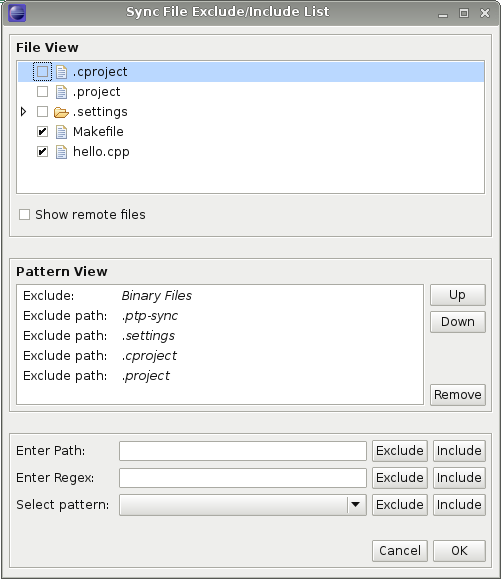
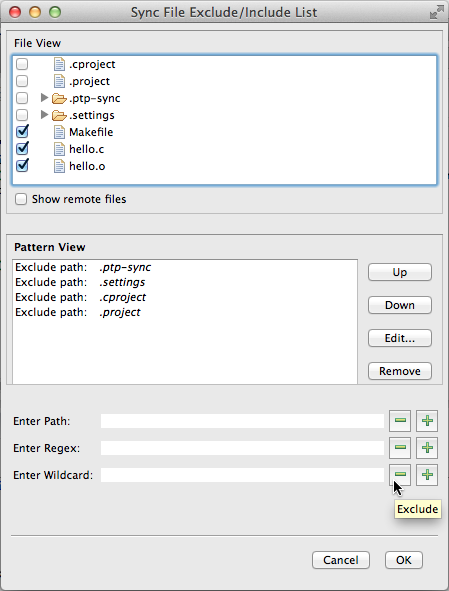
Update help for sync file filtering

Changed region(s): [[0.0, 0.0, 1.0, 1.0], [0.2183, 0.8069, 0.2494, 0.8379]]

diff --git a/core/org.eclipse.ptp.doc.user/html/sync.html b/core/org.eclipse.ptp.doc.user/html/sync.html
@@ -12,11 +12,13 @@
 <li><a href="#create">Creating a new Synchronized Project</a>
 <li><a href="#work">Working with a Synchronized Project</a>
 <li><a href="#context-menu">Changing sync behavior with the Sync Context Menu</a>
-<li><a href="#file-filter">Changing which files are synchronized</a> - sync filtering
+<li><a href="#file-filter">Changing which files are synchronized with Sync Filtering</a>
 <li><a href="#conversion-wizard">Converting a project to a Synchronized Project</a>
 <li><a href="#merge-conflict">Resolving merge conflicts</a>
 <li><a href="#remote-discovery">Discovering the remote environment (remote includes and code analysis)</a>
+<li><a href="#prefs">Sync Preferences</a>
 </ul>
+<!--  fixme: redo screenshots later, since title has changed for file filtering  -->
 <p>Synchronized projects consist of files that are mirrored on the local system as well as on one or more remote systems.
 Editing occurs locally and each file is synchronized with the currently active remote system when it is changed, created, or deleted.  
 This enables faster interaction with the files
@@ -38,8 +40,7 @@ select <b>New > Synchronized C/C++ Project</b> or <b>Synchronized Fortran Projec
 <p><br></p>
 <p><img src="images/sync-newprojContext.png">
 <p><br></p>
-Now fill out the dialog shown.
-<p><br></p>
+<p id="new-sync-proj">Now fill out the <b>New Synchronized Project</b> dialog shown.
 <p><img src="images/sync-newprojCreate.png">
 <p><br></p>
 As for any Eclipse project, give the project name and location, which must be a local directory for a Synchronized Project.
@@ -47,6 +48,12 @@ Then give a remote location by specifying a <a href="#connection">connection</a>
 Next, specify the project type. Finally, select toolchains to be used for remote and local sites.
 Normally, you will select only one toolchain for each, but it is possible to select additional toolchains.
 <i>Note that a local toolchain is not required if you do not need to build locally.</i>
+<p>File filtering specifies which files will be synchronized between the local machine and the remote target.
+The default can be altered for this new project
+via the <b>Modify File Filtering...</b> button.  By default, eclipse-related files such as <code>.project</code>
+are not synchronized between the local and the remote system.  Binary files are.  See <a href="#file-filter">Sync Filtering</a>
+for more information.  See <a href="#prefs">Sync Preferences </a> for information on how to modify the default behavior 
+for subsequent new synchronized projects.
 <p>
 Select <b>Next</b> to scroll through the remaining pages, which differ based on the selected project types and toolchains.
 At some point, you should see the configuration page, which will list a separate build configuration for each toolchain selected earlier.
@@ -78,7 +85,7 @@ If you create or delete files, the remote system will be updated appropriately.
 <p>
 By default, a synchronized project is configured to build on the same remote host as for synchronization.
 To build the project (assuming you have already created a makefile), make sure the project is selected in the <b>Project Explorer</b> view, then click
-on the build icon (the icon that looks like a hammer).
+on the build icon (the icon that looks like a hammer). The Console view shows the results of the build.
 </p>
 <p>
 Synchronization and building are done between the local workspace and the active configuration.
@@ -86,7 +93,7 @@ You can change the active configuration by using the "sundial" icon next to the 
 Local configurations have sync disabled initially and build in the Eclipse workspace.
 </p>
 <p>
-You can create configurations to synchronize and build on other remote systems from the <b>C/C++ Build > Synchronize</b> project properties.
+You can create configurations to synchronize and build on other remote systems from the <b>C/C++ Build > Synchronize</b> in project properties.
 To bring up the Synchronize project properties, in the <b>Project Explorer</b> view, select the project and choose <b>Properties</b> from the context
 menu (right click).
 You can also use these property pages to modify configurations in general. See the CDT documentation for more details.
@@ -94,24 +101,67 @@ You can also use these property pages to modify configurations in general. See t
 <p><img src="images/sync-projProperties.png">
 
 <h2 id="context-menu">Changing sync behavior with the Sync Context Menu</h2>
-<p>The sync context menu lets you alter the sync behavior and can be accessed with a right click on a sync project. From this menu, you can turn off automatic sync'ing (sync after saving files and other resource changes) so that syncs only occur on request. This setting is applied to all projects in the workspace. The "Project Auto-Sync Settings" submenu allows you to alter the behavior of automatic sync'ing per project. The next two selections allow you to force an immediate sync of the current project. A "sync all" syncs all configurations of a project. Note that this can be quite slow if your project has several configurations. Prior to a build, files are always updated with a forced sync of only the active configuration, regardless of any settings. This ensures that the build is based on the latest revisions. Another sync may occur after the build to update files, since the build may alter the remote files during compilation. (This sync, however, does respect the user's settings.) See "<a href="#file-filter">Changing which files are synchronized</a>" for information on the "Filter..." option.
+<p>The sync context menu lets you alter the sync behavior and can be accessed with a right click on a sync project. From this menu, you can turn off automatic sync'ing (sync after saving files and other resource changes) so that syncs only occur on request. This setting is applied to all projects in the workspace. The "Project Auto-Sync Settings" submenu allows you to alter the behavior of automatic sync'ing per project. The next two selections allow you to force an immediate sync of the current project. A "sync all" syncs all configurations of a project. Note that this can be quite slow if your project has several configurations. Prior to a build, files are always updated with a forced sync of only the active configuration, regardless of any settings. This ensures that the build is based on the latest revisions. Another sync may occur after the build to update files, since the build may alter the remote files during compilation. (This sync, however, does respect the user's settings.) 
+See "<a href="#file-filter">Sync Filtering: Changing which files are synchronized</a>" for information on the "Filter..." option.
 
 <p><img src="images/sync-contextMenu.png">
 
-<h2 id="file-filter">Changing which files are synchronized</h2>
+<h2 id="file-filter">Sync Filtering: Changing which files are synchronized</h2>
+<!-- need the word FILTER On the dialog itself ? -->
+<p>Some files do not need to be synchronized between local and remote locations. 
+For example, binaries may not be of use on the local machine (and may be large and slow to replicate), but source files usually are
+since they are usually edited from the local Eclipse workbench but used to build on the remote target system. 
+<p>From the "Filter..." option of the <a href="#context-menu">sync context menu</a>,
+you can change which files are synchronized for the current project. You can also change the default settings for future projects on the 
+<a href="#prefs">Synchronized Project preference page</a>. 
+For files and folders, "Exclude Selection" and "Include Selection" shortcut options are also available from the context menu. 
+By default, files and directories specifically used by Eclipse are excluded. (Note that these files, such as <code>.project</code> and <code>.project</code> etc.  are normally not visible.)
+<p>Sync filtering information is accessible in three places:
+<ol>
+<li>The sync filter dialog for existing projects (shown below)
+shows settings and what it does to files in the currently selected existing project
+<li>The <b>File Filters</b> popup dialog from the 
+<a href="#new-sync-proj">new synchronized project dialog</a> (from the <b>Modify File Filtering...</b> button)
+allows setting sync filter settings as a project is created, and 
+<li>The <href="#sync-prefs">Sync Filters Preference page</href> sets defaults that will be used in new projects.
+</ol>
+<p>There are three parts to the sync filter dialog for an existing project:
+<ul>
+<li>The <b>File View</b> always indicates the currently excluded and included directories and files - based on the patterns and selections beneath it. 
+(Not included on the <a href="#prefs">Sync Preferences</a> page.)
+<li>The <b>Pattern View</b> always shows the current exclude and include patterns.
+<li>Finally the bottom portion of the dialog allows you to enter additional patterns, files, and paths to include or exclude from synchronization,
+and the results will be shown above it in the dialog.
+</ul>
 <p>
-From the "Filter..." option of the sync context menu, you can change which files are synchronized for the current project. You can also change the default settings for future projects on the "Synchronized Project" preference page. For files and folders, "Exclude Selection" and "Include Selection" shortcut options are also available from the context menu. 
-By default, files and directories specifically used by Eclipse are excluded. (Note that these files, such as <code>.project</code> etc.  are normally not visible.)
-The "File View" always indicates the currently excluded and included directories and files, while the "Pattern View" always shows the current exclude and include patterns. (The file view is not shown on the preference page.) Each view updates automatically if the other view is changed, so that they are always in agreement. This allows you to see immediately the effect of adding a new pattern. By default, remote files are not shown. Showing remote files may lead to a slower response time while updating views. An error message is printed if the remote is disconnected.
-
+Each view updates automatically if the other view is changed, so that they are always in agreement. 
+This allows you to see immediately the effect of adding a new pattern. 
+By default, remote files are not shown. Showing remote files may lead to a slower response time while updating views. 
+An error message is printed if the remote is disconnected.
 <p>
-You can deselect or select directories or files in the File View, which will add the corresponding exclude or include pattern to the pattern view. These are "path" patterns, meaning that directories or files in the specified path are excluded or included. 
-Underneath the Pattern View, you can manually enter a path (Enter Path:). You can also enter a regular expression ("regex") that is compared to the project-relative path. The regular expression syntax is that of the Java programming language. An error message is printed if the regular expression is not valid. Finally, you can select "special" patterns from the "Select pattern" drop-down. Currently the only special pattern is one for matching binary files.
-
+You can deselect or select directories or files in the <b>File View</b>, which will add the corresponding exclude or include pattern to the <b>Pattern View</b>. 
+These are "path" patterns, meaning that directories or files in the specified path are excluded or included. 
+Underneath the <b>Pattern View</b>, you can manually enter a path (Enter Path:). You can also enter a regular expression ("regex") that is compared to the project-relative path. 
+The regular expression syntax is that of the Java programming language. An error message is printed if the regular expression is not valid. 
+<!--Finally, you can select "special" patterns from the "Select pattern" drop-down. Currently the only special pattern is one for matching binary files.
+  -->
+Lastly, you can also enter a simple wildcard pattern ("Enter Wildcard:").
 <p>
-Patterns are applied in the order given in the Pattern View, and new patterns are always placed at the top (highest priority). So a file will be excluded or included based on the first matching pattern, or included if no pattern matches. Use the "Up" and "Down" buttons to change a pattern's priority. If a new pattern is identical to an old pattern and has the same type, the old pattern is removed. Note that it doesn't matter whether the old pattern was an exclude or include pattern, since the new pattern supersedes it.
+Patterns are applied in the order given in the <b>Pattern View</b>, and new patterns are always placed at the top (highest priority). 
+So a file will be excluded or included based on the first matching pattern, or included if no pattern matches. 
+Use the "Up" and "Down" buttons to change a pattern's priority. 
+If a new pattern is identical to an old pattern and has the same type, the old pattern is removed. 
+Note that it doesn't matter whether the old pattern was an exclude or include pattern, since the new pattern supersedes it.
 
 <p><img src="images/sync-fileExcludeIncludeList.png">
+<p>To enter a new pattern of file(s) to exclude from synchronization, for example, enter the pattern <code>*.o</code> into the <b>Enter Wildcard:</b> field
+and hit the <b>Exclude</b> button, the "minus-sign" button.  To force inclusion of a file or pattern in the synchronization, 
+for example, to override a more general pattern, use the "plus-sign" button to <b>Include</b> the file or pattern..
+<!-- fixme fix this image -->
+<br><img src="images/sync-exclude-include-buttons2.png" >
+<p>The file is changed to unchecked in the <b>File View</b> and the wildcard pattern is added to the <b>Pattern View</b>.
+<br><img src="images/sync-fileExcludeIncludeList_mod.png">
+<p>Hit <b>OK</b> to save any changes you have made to the sync filtering.
 
 <h2 id="conversion-wizard">Converting a project to a Synchronized Project</h2>
 <p>
@@ -166,6 +216,10 @@ The list of discovered paths and macros can be found under the Entries tab on th
 <p>
 By default, the build output parser discovers entries per file. This can be changed under the provider's tab (see above figure). If discovery is per file, though, the list of includes and macros will be empty if accessed from the project menu or by right-clicking on the project or a folder and selecting "Properties." Instead, right-click on an individual file and select "Properties" to see the entries for that particular file.
 
+<h3 id="prefs">Sync Preferences</h3>
+<p>The preferences page for Synchronized projects includes setting defaults for sync filtering.
+<p><img src="images/sync-prefs.png">
+<p>&nbsp;
 <h3>Tips</h3>
 <dl>
 <li>The indexing of source files can take a long time. You may want to cancel the process or disable indexing altogether until the above setup is complete (<b>Project > Properties > C/C++ General > Indexer</b>)</li>
@@ -173,7 +227,7 @@ By default, the build output parser discovers entries per file. This can be chan
 <li>To re-index, right-click on the project and select <b>Indexer > Rebuild</b></li>
 <li>In the Providers tab (not the Entries tab), use the Clear Entries button to erase entries for a specific provider. Doing this is often necessary after creating a new configuration for a different remote. The entries for the copied configuration are copied to the new configuration.</li>
 <li>The build output parser operates on build output lines containing the name of the compiler executable. Under the provider tab, change the "Compiler command pattern" (see above figure) if it does not match your executable name. For example, if you are using MPI your executable may be "mpicc," "mpic++," or "mpiCC." Be careful to mimic the regular expression format. For example, to add "mpic++" append: |(mpic\+\+) to the pattern.</li>
-<li>If switching configurations does not alter the environment, doublecheck the Indexer "Build configuration for the indexer" setting. For some reason, it will sometimes reset to use a fixed configuration, such as when Eclipse is restarted.</li>
+<li>If switching configurations does not alter the environment, double-check the Indexer "Build configuration for the indexer" setting. For some reason, it will sometimes reset to use a fixed configuration, such as when Eclipse is restarted.</li>
 </dl>
 
 <p>See also 
